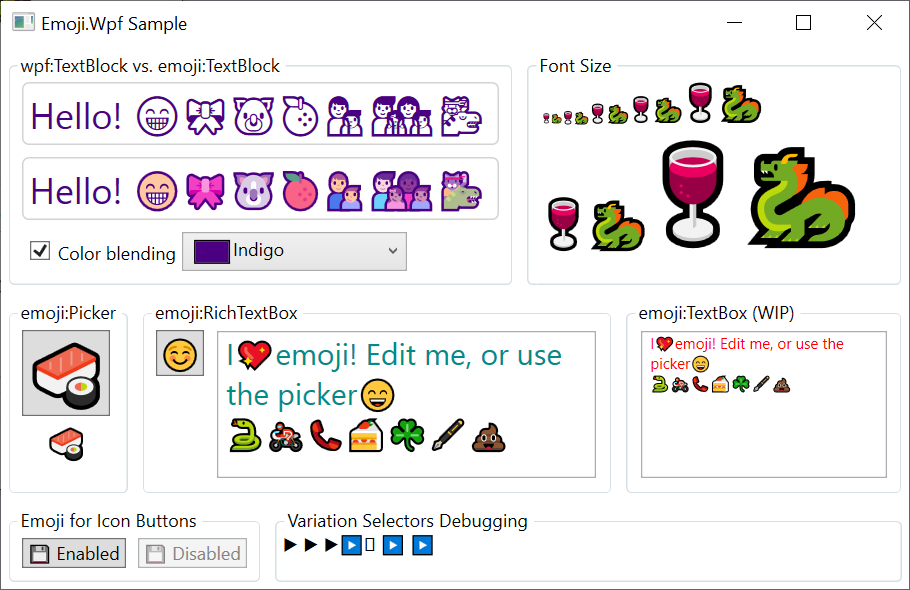
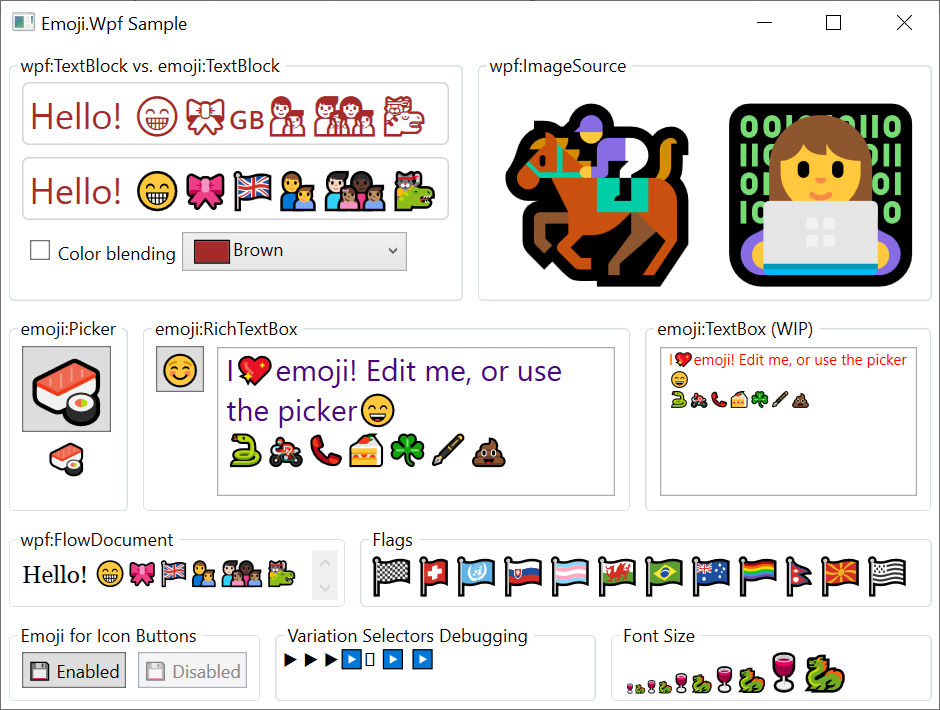
Release version 0.3.0.

diff --git a/README.md b/README.md
@@ -67,12 +67,15 @@ useful and robust library if given enough care. Any help appreciated!
 ### Version changelog
 
  - next release:
+   - glyphs for flags!
+   - new `emoji:EmojiRendering` dependency property for `FlowDocument`
    - optional subpixel glyph rendering
+   - experimental support for custom emoji sequences and custom glyphs
  - v0.2.5 (2021/01/29):
    - minor adjustments in `emoji:Picker`
  - v0.2.4 (2021/01/28):
    - new `emoji:Image.Source` dependency property for `Image` and `DrawingImage` objects, allowing
-     to easily render emoji as icons.
+     to easily render emoji as icons
  - v0.2.3 (2021/01/27):
    - the rendering pipeline now exclusively uses vector objects
    - subpixel glyph positioning
@@ -86,7 +89,7 @@ useful and robust library if given enough care. Any help appreciated!
    - fixed a warning caused by the Typography DLLs about `ExtensionAttribute` being redefined
  - v0.2.0 (2021/01/17):
    - support for undo/redo and numerous bugfixes in `emoji:RichTextBox`
-   - minimal .NET version is now Framework 4.0 (was 3.0).
+   - minimal .NET version is now Framework 4.0 (was 3.0)
  - v0.1.8 (2021/01/13):
    - composite emoji such as 🧔🏻 or 👨🏻🦰 now render properly in `emoji:RichTextBox`
    - new `Picked` event in `emoji:Picker`
